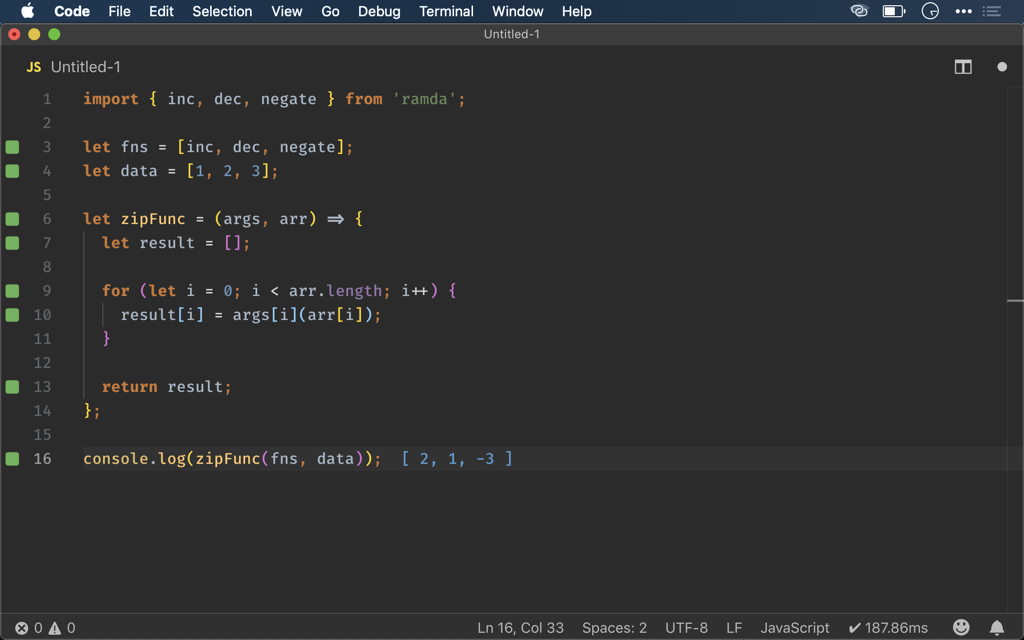
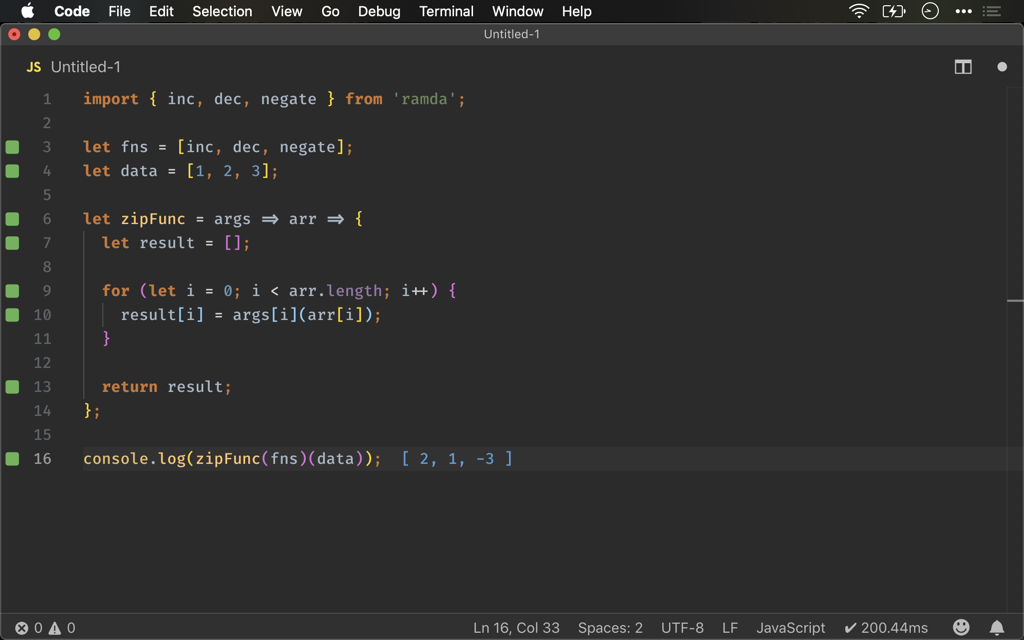
Ramda 自行組合 zipFunc()

Changed region(s): [[0.0, 0.0, 1.0, 0.0625], [0.4688, 0.9688, 0.9062, 1.0], [0.2188, 0.3125, 0.3125, 0.375]]

diff --git a/source/_posts/ramda/zipfunc.md b/source/_posts/ramda/zipfunc.md
@@ -9,7 +9,7 @@ tags:
 feature: images/feature/ramda.png
 date: 2019-05-10 11:07:02
 ---
-若想將 Array 中一系列 Function，套用到另一 Array 中一系列的 Element，Ramda 並沒有提供適當 Function，此時我們可以自行組合出 `zipFunc()`。
+若想將 Array 中一系列 Function，套用到另一 Array，Ramda 並沒有提供適當 Function，此時我們可以自行組合出 `zipFunc()`。
 
 <!-- more -->
 
@@ -27,7 +27,7 @@ import { inc, dec, negate } from 'ramda';
 let fns = [inc, dec, negate];
 let data = [1, 2, 3];
 
-let zipFunc = (args, arr) => {
+let zipFunc = args => arr => {
   let result = [];
 
   for (let i = 0; i < arr.length; i++) {
@@ -37,10 +37,10 @@ let zipFunc = (args, arr) => {
   return result;
 };
 
-console.log(zipFunc(fns, data));
+console.log(zipFunc(fns)(data));
 ```
 
-`fns` array 有一系列 function，將會依序套用到 `data` array 中所有 element 成為新 array。
+`fns` array 有一系列 function，會依序套用到 `data` array。
 
 `inc()`、`dec()` 與 `negate()` 只是借用 Ramda 的 function，這不是重點，你也可以使用自己的 function。
 
@@ -57,7 +57,7 @@ let fns = [inc, dec, negate];
 let data = [1, 2, 3];
 
 let zipFunc = zipWith(call);
-console.log(zipFunc(fns, data));
+console.log(zipFunc(fns)(data));
 ```
 
 Ramda 並沒有提供 `zipFunc()`，但我們可以自行組合。
@@ -76,7 +76,7 @@ Ramda 並沒有提供 `zipFunc()`，但我們可以自行組合。
 let zipFunc = zipWith(call);
 ```
 
-因此 `zipWith()` 的 callback 並不是傳入 arrow function，而是傳入 Ramda 的 `call()`，它將會執行 array 中的 function，至於第二個 argument 的 array 已經被 point-free，因此不用提供。
+因此 `zipWith()` 的 callback 並不是傳入 arrow function，而是傳入 Ramda 的 `call()`，它將會執行 array 中的 function，至於第二個 argument 已經被 point-free，因此不用提供。
 
 > **call()**
 > `(*… → a),*… → a`
